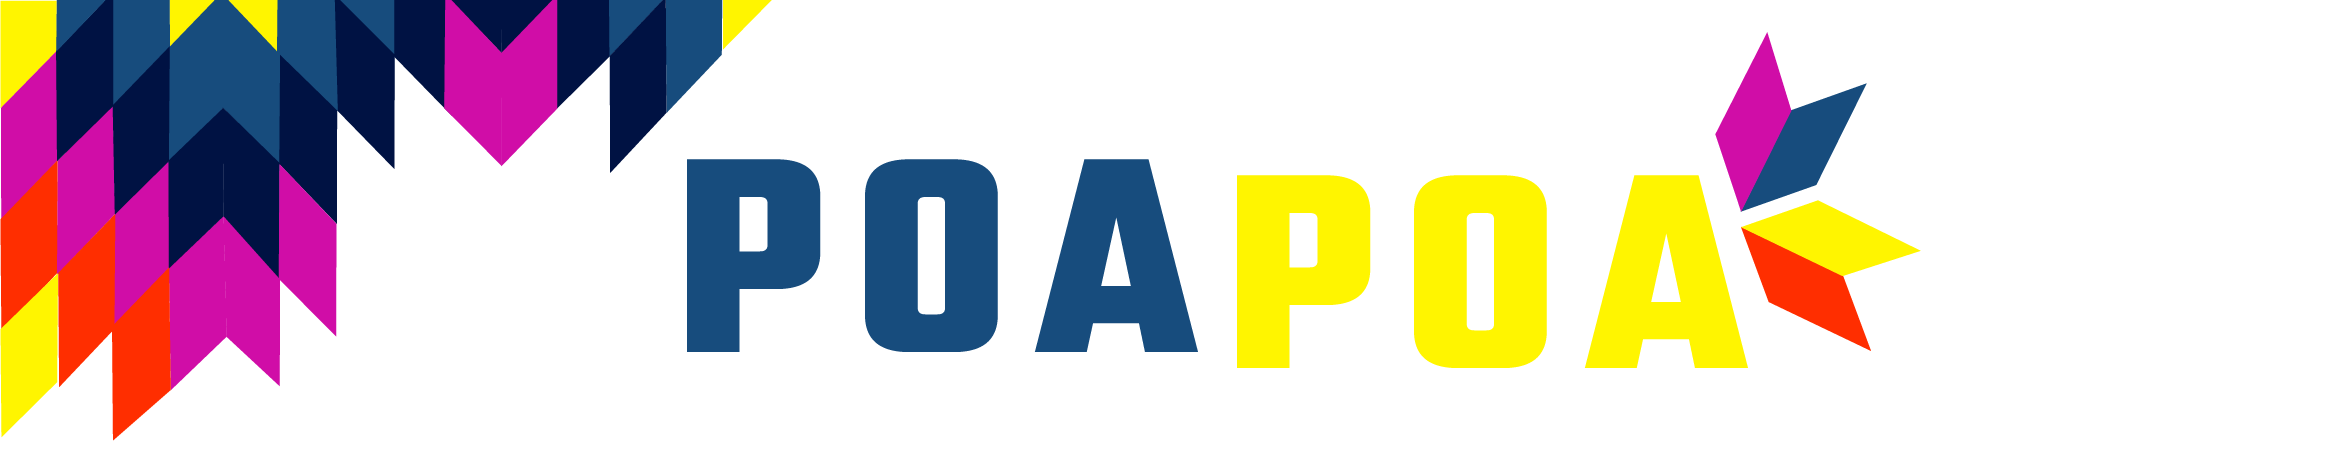
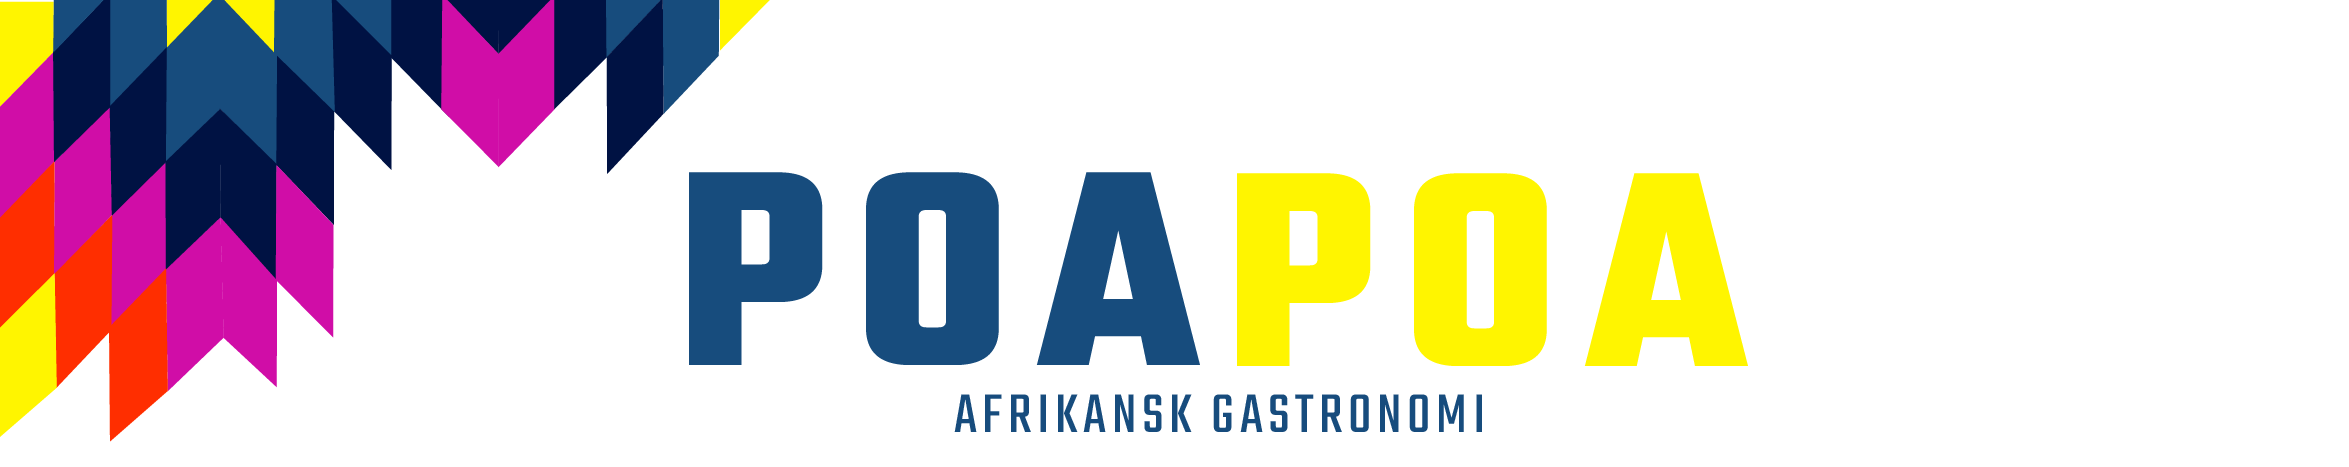
sidste ændringer inden aflevering

diff --git a/05.03.02/styles.css b/05.03.02/styles.css
@@ -105,7 +105,7 @@ button:hover {
 
 .ret {
 
-    margin: 40px 100px 0px 100px;
+    margin: 20px 100px 10px 100px;
     padding: 10px 60px;
     display: flex;
     flex-direction: column;
@@ -119,7 +119,7 @@ button:hover {
     width: 350px;
     height: 350px;
     -webkit-transform: rotate(45deg);
-    border: 5px solid #08D8D0;
+    border: 8px solid #00ffff;
 
 }
 
@@ -190,6 +190,7 @@ h2 {
     text-align: center;
     letter-spacing: 10px;
     position: relative;
+    margin-top: 40px;
 
 }
 
@@ -293,10 +294,11 @@ audio {
     .logo {
 
         display: block;
-        background-image: url("mad/poapoa.png.png");
+        background-image: url("mad/udvalg_eget.png");
         background-position: center;
         background-repeat: no-repeat;
         background-size: contain;
+        max-width: 768px;
         height: 187px;
         z-index: 10;
 
@@ -322,7 +324,7 @@ audio {
 
 /*--------------- Mobil -------------------*/
 
-@media screen and (max-width: 320px) {
+@media screen and (max-width: 414px) {
 
 
 
@@ -334,7 +336,7 @@ audio {
         background-repeat: no-repeat;
         background-size: contain;
         height: 187px;
-        width: auto;
+/*        max-width: 320px;*/
         z-index: 10;
         margin-top: -68px;
 
@@ -353,7 +355,7 @@ audio {
 
 
     h3 {
-        font-size: 0.5rem;
+        font-size: 1.3rem;
         text-align: left;
         text-align: center;
 

diff --git a/05.03.02/index.html b/05.03.02/index.html
@@ -25,12 +25,15 @@
 
 
     </div>
-    <div class="logo"></div>
+
+    <a href="index.html">
+        <div class="logo"></div>
+    </a>
 
 
     <div id="overskrift">ALLE</div>
 
-   <div class="corner_pic"></div>
+    <div class="corner_pic"></div>
 
 
     <div class="menu">
@@ -39,6 +42,7 @@
         <button class="filter valgt" data-ret=forretter>FORRETTER</button>
         <button class="filter" data-ret="hovedretter">HOVEDRETTER</button>
         <button class="filter" data-ret="desserter">DESSERTER</button>
+        <button class="filter" data-ret="kontakt">KONTAKT</button>
 
     </div>
 
@@ -74,6 +78,8 @@
                         <img src="mad/${ret.billede}" alt=${ret.navn}">
                         <h2>${ret.navn}</h2>
                         <p>${ret.pris}</p>
+ <h4>${ret.kontakt}</h4>
+
                     </article>`;
 
 
@@ -88,6 +94,7 @@
 <h2>${ret.navn}</h2>
 <p>${ret.pris}</p>
 <h3>${ret.beskrivelse}</h3>
+<h4>${ret.kontakt}</h4>
 
         </article>`;
 
@@ -124,10 +131,10 @@
 
             visRetter();
         }
+
     </script>
 
     <footer>
-
 
 
 
@@ -152,6 +159,7 @@
             <li>Please call or write if you have any questions</li>
 
         </ul>
+
     </footer>
 
 
